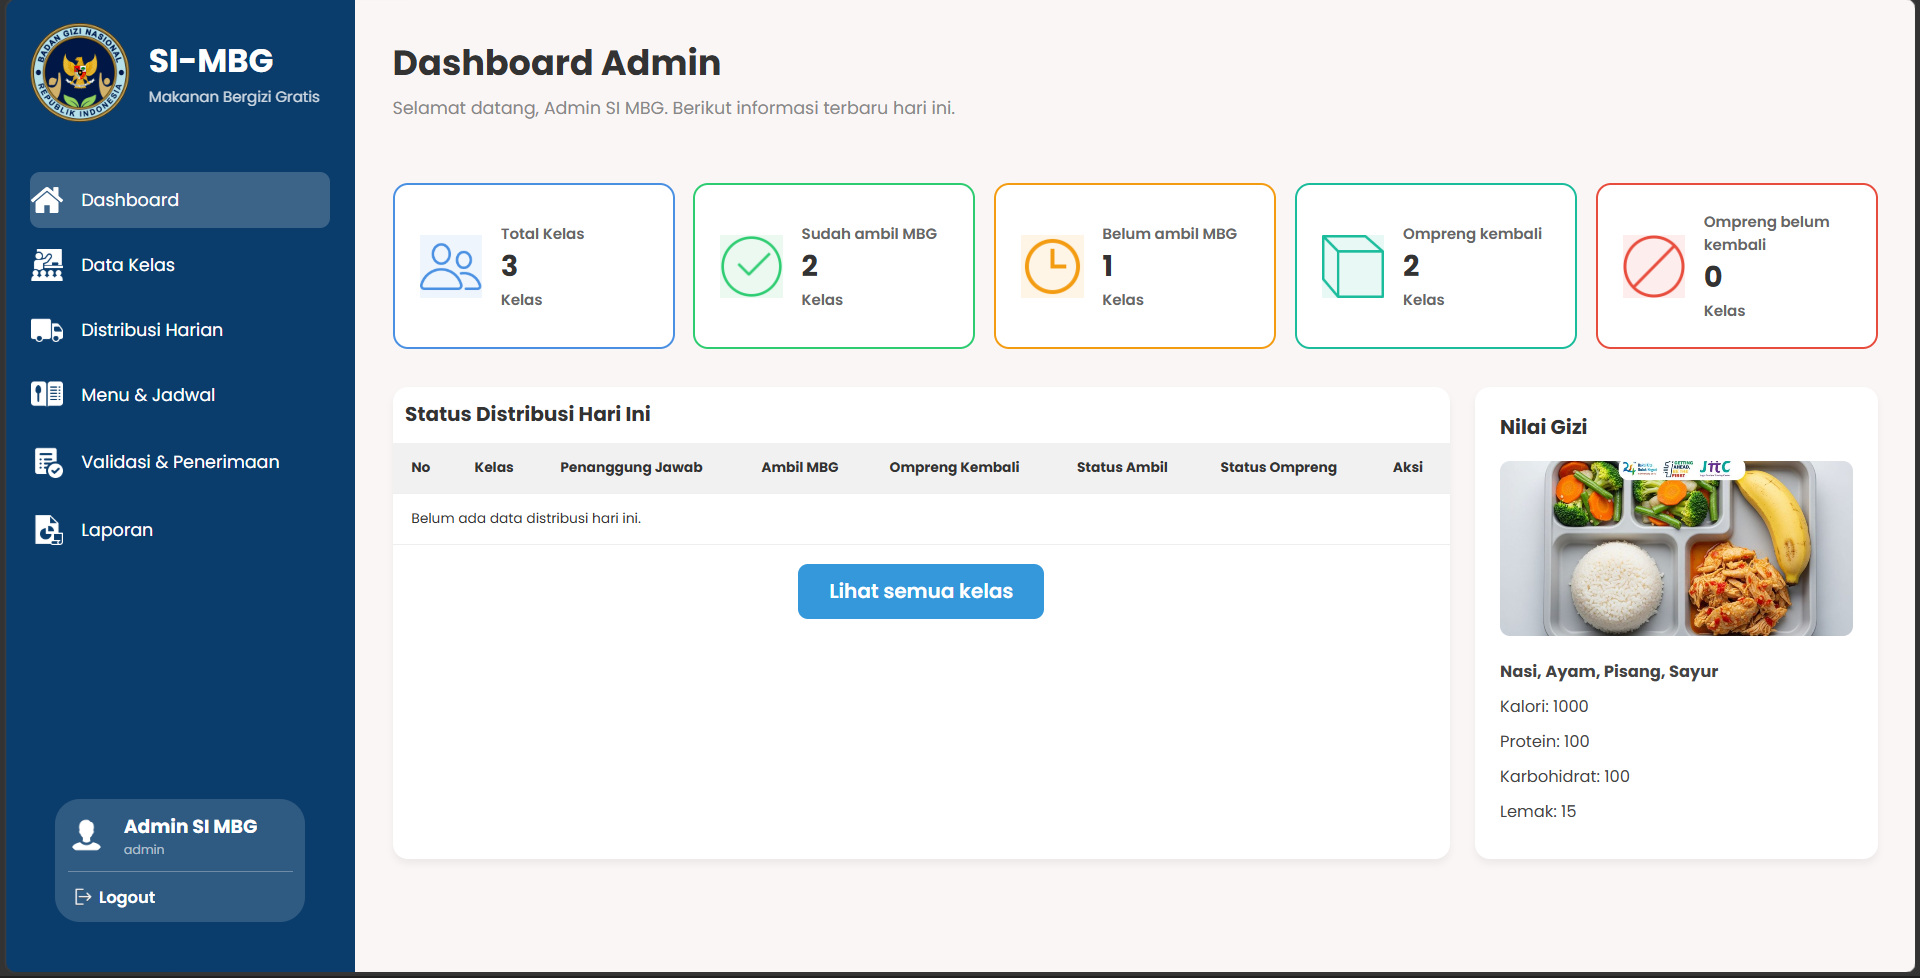
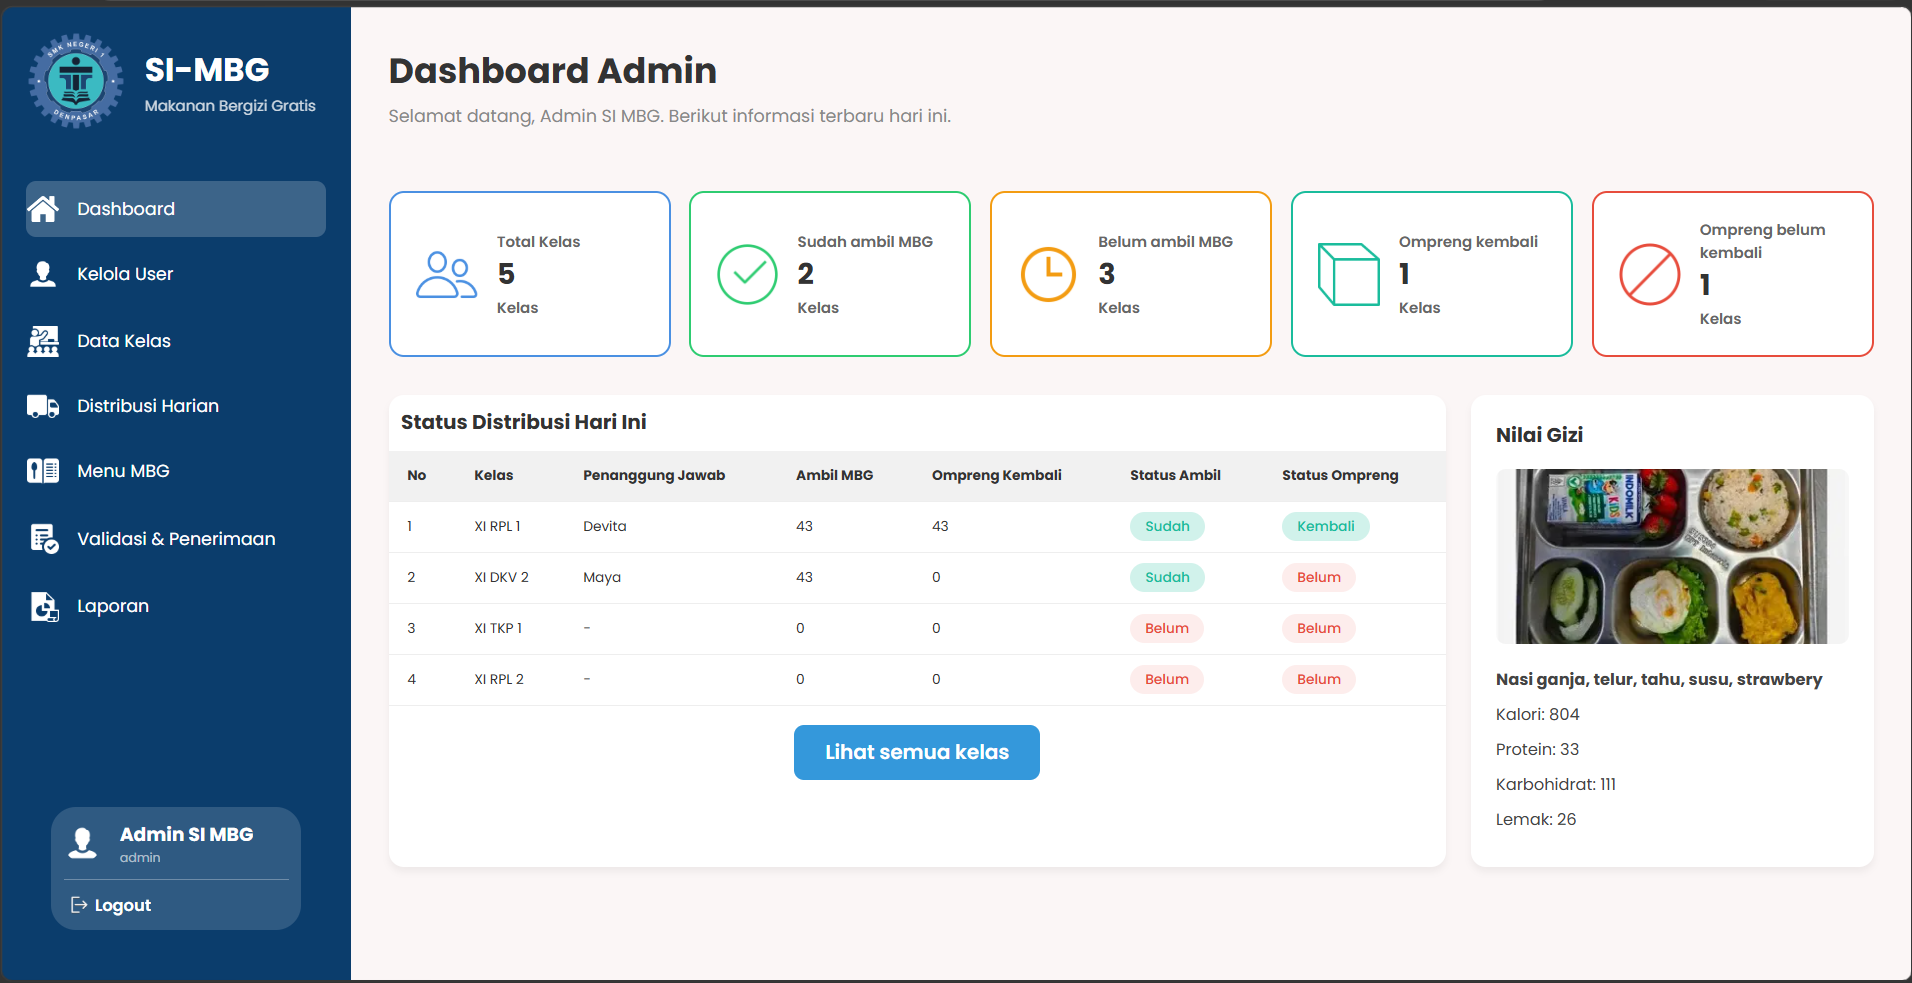
feet : baru

diff --git a/src/assets/css/skills.css b/src/assets/css/skills.css
@@ -54,7 +54,7 @@
   height: 4px;
   background: var(--gradient-primary);
   opacity: 0;
-  transition: var(--transition-fast);
+  transition: var(--transition-smooth);
 }
 
 .skill-card:nth-child(1),
@@ -150,7 +150,25 @@
 }
 
 .skill-card.show .progress-bar {
-  transform: scaleX(1);
+  transform: scaleX(var(--progress));
+}
+
+.progress-bar::after {
+  content: '';
+  position: absolute;
+  inset: 0;
+  background: linear-gradient(
+    120deg,
+    transparent,
+    rgba(255,255,255,0.4),
+    transparent
+  );
+  opacity: 0;
+  transition: opacity 0.4s;
+}
+
+.skill-card:hover .progress-bar::after {
+  opacity: 1;
 }
 
 @media (max-width: 991.98px) {
@@ -176,7 +194,8 @@
 }
 
 .skill-card.show .progress-bar {
-  transform: scaleX(1);
+  transform: scaleX(var(--progress));
+  box-shadow: 0 0 10px rgba(58, 175, 169, 0.4);
 }
 
 @media (max-width: 991.98px) {

diff --git a/src/assets/css/projects.css b/src/assets/css/projects.css
@@ -15,7 +15,7 @@
 .projects-grid {
   display: grid;
   gap: 34px;
-  grid-template-columns: repeat(auto-fit, minmax(340px, 1fr));
+  grid-template-columns: repeat(2, minmax(0, 1fr));
   position: relative;
   z-index: 1;
 }
@@ -58,11 +58,26 @@
   background: var(--color-alt);
   object-fit: cover;
   object-position: top center;
+  will-change: transform;
   transition: transform 0.6s cubic-bezier(0.16, 1, 0.3, 1);
 }
 
 .project-card:hover .project-image-area img {
-  transform: scale(1.06);
+  transition: transform 0.8s cubic-bezier(0.22, 1, 0.36, 1);
+  filter: brightness(0.9);
+}
+
+.project-image-area::after {
+  content: '';
+  position: absolute;
+  inset: 0;
+  background: rgba(0, 0, 0, 0.15);
+  opacity: 0;
+  transition: opacity 0.4s ease;
+}
+
+.project-card:hover .project-image-area::after {
+  opacity: 1;
 }
 
 .project-overlay {

diff --git a/src/views/Projects.vue b/src/views/Projects.vue
@@ -47,10 +47,8 @@ import { onMounted, onUnmounted, ref } from 'vue'
 import Modal from '../components/Modal.vue'
 import siMbgImage from '@/assets/image/si-mbg.png'
 import gameImage from '@/assets/image/game.png'
-import myDuitImage from '@/assets/image/myduit.png'
 import webBiodataImage from '@/assets/image/web_biodata.png'
 import skensisImage from '@/assets/image/skensis.png'
-import kalkulatorImage from '@/assets/image/kalkulator.png'
 
 const selectedProject = ref(null)
 
@@ -72,14 +70,6 @@ const projects = [
       'Game 2D interaktif bertema horor yang menantang pemain untuk melarikan diri dari sekolah berhantu. Pemain harus memecahkan teka-teki, menghindari rintangan, dan menemukan jalan keluar. Game ini menggabungkan elemen eksplorasi dan strategi, dengan suasana mencekam yang dibangun melalui visual dan mekanik permainan.',
   },
   {
-    title: 'MyDuit',
-    image: myDuitImage,
-    short: 'Aplikasi manajemen keuangan untuk mencatat pemasukan dan pengeluaran.',
-    tech: ['Finance', 'UI', 'Data'],
-    description:
-      'Aplikasi manajemen keuangan sederhana yang membantu pengguna mencatat pemasukan dan pengeluaran sehari-hari. Dengan tampilan yang clean dan mudah digunakan, pengguna dapat memantau kondisi keuangan mereka secara lebih teratur. Aplikasi ini juga membantu meningkatkan kesadaran dalam mengelola uang secara bijak.',
-  },
-  {
     title: 'Personal Website',
     image: webBiodataImage,
     short: 'Website pribadi untuk menampilkan biodata, skill, dan project.',
@@ -94,14 +84,6 @@ const projects = [
     tech: ['Education', 'Data Analysis', 'Web'],
     description:
       'Aplikasi berbasis web yang dirancang untuk menganalisis potensi siswa melalui berbagai parameter dan indikator. Aplikasi ini membantu pendidik dalam mengidentifikasi kekuatan dan kelemahan siswa, serta merancang strategi pembelajaran yang lebih efektif.',
-  },
-  {
-    title: 'Kalkulator HP',
-    image: kalkulatorImage,
-    short: 'Kalkulator sederhana dengan tampilan responsif seperti perangkat mobile.',
-    tech: ['Calculator', 'Logic', 'Mobile UI'],
-    description:
-      'Aplikasi kalkulator sederhana yang meniru fungsi kalkulator pada perangkat mobile. Mendukung operasi matematika dasar dengan tampilan yang user-friendly dan responsif. Cocok digunakan sebagai latihan logika pemrograman dan manipulasi input pengguna.',
   },
 ]
 

diff --git a/src/assets/css/modal.css b/src/assets/css/modal.css
@@ -51,7 +51,7 @@
   position: absolute;
   right: 20px;
   top: 20px;
-  transition: var(--transition-fast);
+  transition: var(--transition-smooth);
   width: 40px;
   z-index: 2;
   cursor: pointer;
@@ -106,7 +106,7 @@
 
 .modal-enter-active,
 .modal-leave-active {
-  transition: opacity 0.3s ease;
+  transition: opacity 0.35s ease;
 }
 
 .modal-enter-from,
@@ -114,15 +114,21 @@
   opacity: 0;
 }
 
+/* Dialog */
 .modal-enter-active .project-modal-dialog,
 .modal-leave-active .project-modal-dialog {
-  transition: transform 0.3s cubic-bezier(0.16, 1, 0.3, 1), opacity 0.3s ease;
+  transition: 
+    transform 0.4s cubic-bezier(0.22, 1, 0.36, 1),
+    opacity 0.3s ease;
 }
 
 .modal-enter-from .project-modal-dialog,
 .modal-leave-to .project-modal-dialog {
   opacity: 0;
-  transform: scale(0.95) translateY(15px);
+  transform: scale(0.97) translateY(8px);
+}
+.project-modal-dialog {
+  will-change: transform, opacity;
 }
 
 @media (max-width: 767.98px) {

diff --git a/src/assets/css/global.css b/src/assets/css/global.css
@@ -68,7 +68,7 @@ body {
 a {
   color: inherit;
   text-decoration: none;
-  transition: var(--transition-fast);
+  transition: var(--transition-smooth);
 }
 
 img {
@@ -193,8 +193,8 @@ main {
 /* Animations */
 .animate {
   opacity: 0;
-  transform: translateY(25px);
-  transition: opacity 0.7s cubic-bezier(0.16, 1, 0.3, 1), transform 0.7s cubic-bezier(0.16, 1, 0.3, 1);
+  transform: translateY(15px);
+  transition: opacity 0.5s ease, transform 0.5s ease;
 }
 
 .animate.show {
@@ -273,7 +273,7 @@ main {
   font-size: 0.9rem;
   font-weight: 600;
   padding: 10px 20px;
-  transition: var(--transition-fast);
+  transition: var(--transition-smooth);
 }
 
 .footer-links a:hover {

diff --git a/src/assets/css/navbar.css b/src/assets/css/navbar.css
@@ -24,7 +24,7 @@
   font-weight: 800;
   letter-spacing: -0.02em;
   padding: 0;
-  transition: var(--transition-fast);
+  transition: var(--transition-smooth);
 }
 
 .portfolio-navbar .navbar-brand .brand-accent {
@@ -41,7 +41,7 @@
   margin-left: 26px;
   padding: 6px 0;
   position: relative;
-  transition: var(--transition-fast);
+  transition: var(--transition-smooth);
 }
 
 .portfolio-navbar .nav-link::after {
@@ -75,7 +75,7 @@
   padding: 6px;
   border-radius: 8px;
   background: rgba(255, 255, 255, 0.1);
-  transition: var(--transition-fast);
+  transition: var(--transition-smooth);
 }
 
 .navbar-toggler:focus {

diff --git a/src/assets/css/about.css b/src/assets/css/about.css
@@ -138,7 +138,7 @@
   gap: 20px;
   justify-content: space-between;
   padding: 16px 22px;
-  transition: var(--transition-fast);
+  transition: var(--transition-smooth);
   box-shadow: var(--shadow-tinted-sm);
 }
 

diff --git a/src/assets/css/contact.css b/src/assets/css/contact.css
@@ -77,7 +77,7 @@
   font-size: 0.9rem;
   font-weight: 600;
   padding: 10px 18px;
-  transition: var(--transition-fast);
+  transition: var(--transition-smooth);
   white-space: nowrap;
 }
 